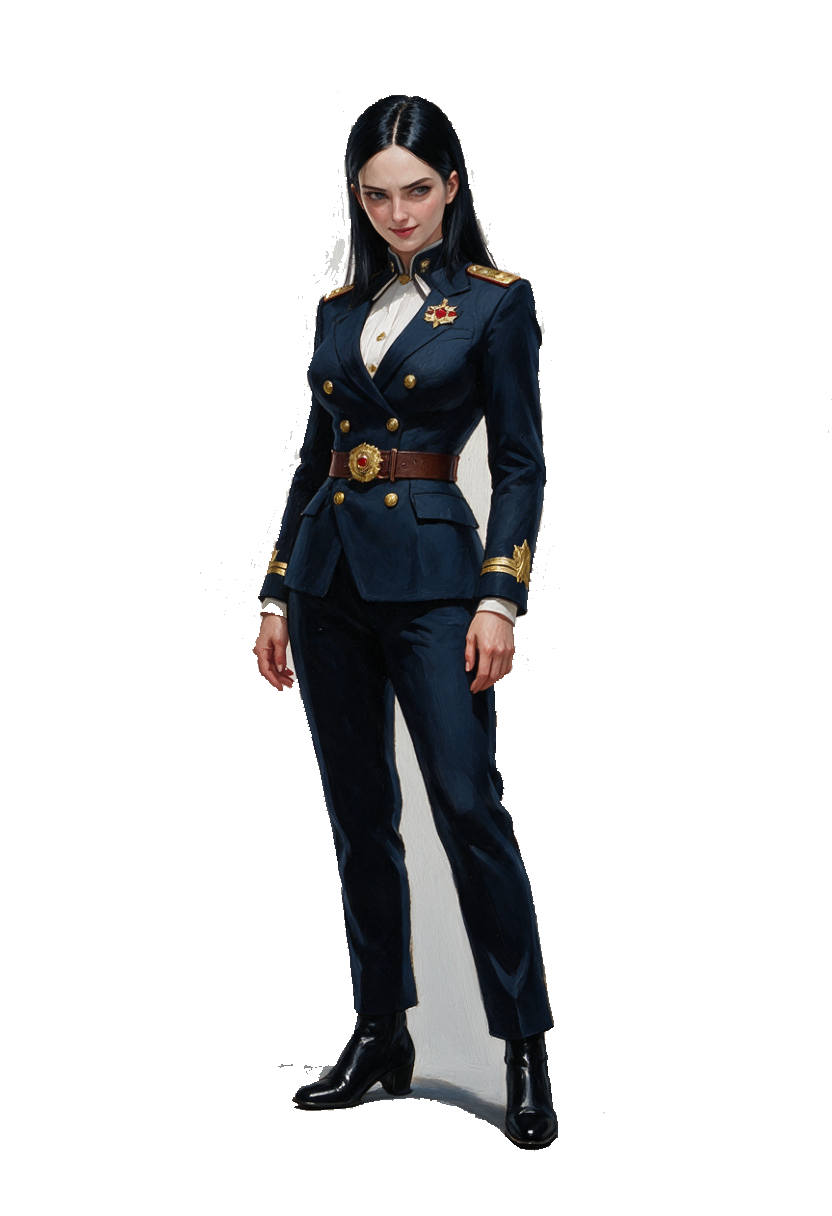
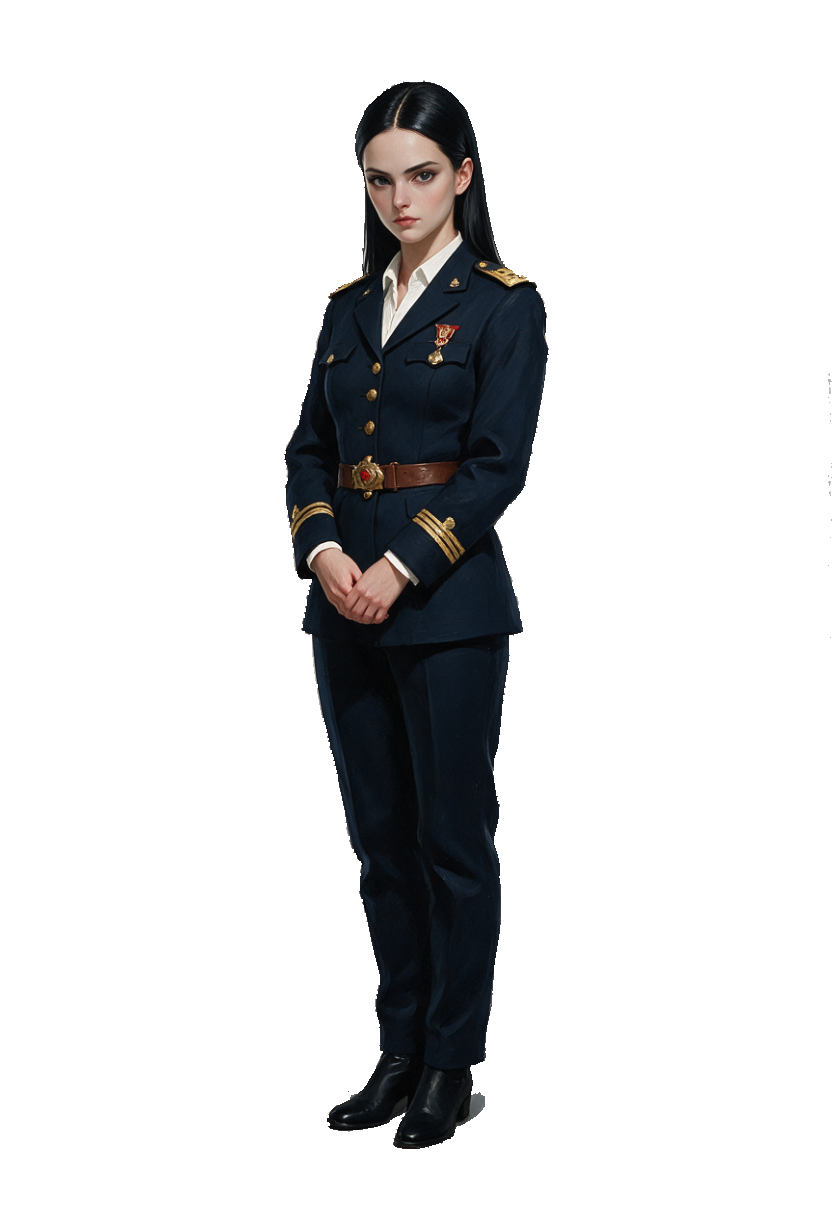
[fix](德塔): 幸立绘重出v2(双手叠前+得体表情)+位置跳动修复(绝对定位)
立绘位置跳动修复(DOM断点定位根因):
- 根因: flex+margin布局在角色增减/class变化时重新分配空间
- CharacterLayer改绝对定位(pos-left/right/center各自固定)
- prologue.js: 第二幕28处position固定(xing始终right, dean始终left)

幸立绘v2:
- 姿势改双腿并拢+双手叠前(轮廓紧凑, 抠图无残留)
- 表情去妖邪词改得体漂亮(gentle/dignified)
- 4套: smile/observe/pleased/cold

抠图修正:
- resize插值产生半透明, 改原图erode->resize->二次erode
- 4套半透明残留=0(像素采样验证)

Changed region(s): [[0.3125, 0.0625, 0.6875, 0.9688]]

diff --git a/src/visualnovel/data/prologue.js b/src/visualnovel/data/prologue.js
@@ -253,7 +253,7 @@ export default [
     type: 'dialogue',
     background: 'bg/tower_interior_hall',
     characters: [
-      { id: 'xing', portrait: 'xing/smile', position: 'center', active: true },
+      { id: 'xing', portrait: 'xing/smile', position: 'right', active: true },
       { id: 'dean', portrait: 'dean/calm', position: 'left', active: false },
     ],
     speaker: '幸',
@@ -265,7 +265,7 @@ export default [
     background: 'bg/tower_interior_hall',
     characters: [
       { id: 'dean', portrait: 'dean/calm', position: 'left', active: true },
-      { id: 'xing', portrait: 'xing/smile', position: 'center', active: false },
+      { id: 'xing', portrait: 'xing/smile', position: 'right', active: false },
     ],
     speaker: '见',
     next: 'pro_105'
@@ -275,7 +275,7 @@ export default [
     type: 'dialogue',
     background: 'bg/tower_interior_hall',
     characters: [
-      { id: 'xing', portrait: 'xing/smile', position: 'center', active: true },
+      { id: 'xing', portrait: 'xing/smile', position: 'right', active: true },
       { id: 'dean', portrait: 'dean/calm', position: 'left', active: false },
     ],
     speaker: '幸',
@@ -293,7 +293,7 @@ export default [
     type: 'dialogue',
     background: 'bg/tower_interior_hall',
     characters: [
-      { id: 'xing', portrait: 'xing/smile', position: 'center', active: true },
+      { id: 'xing', portrait: 'xing/smile', position: 'right', active: true },
     ],
     speaker: '幸',
     next: 'pro_108'
@@ -313,7 +313,7 @@ export default [
     type: 'dialogue',
     background: 'bg/tower_interior_hall',
     characters: [
-      { id: 'xing', portrait: 'xing/smile', position: 'center', active: true },
+      { id: 'xing', portrait: 'xing/smile', position: 'right', active: true },
     ],
     speaker: '幸',
     next: 'pro_110'
@@ -332,7 +332,7 @@ export default [
     type: 'dialogue',
     background: 'bg/tower_interior_hall',
     characters: [
-      { id: 'xing', portrait: 'xing/observe', position: 'center', active: true },
+      { id: 'xing', portrait: 'xing/observe', position: 'right', active: true },
     ],
     speaker: '幸',
     next: 'pro_112'
@@ -359,7 +359,7 @@ export default [
     type: 'dialogue',
     background: 'bg/tower_interior_hall',
     characters: [
-      { id: 'xing', portrait: 'xing/observe', position: 'center', active: true },
+      { id: 'xing', portrait: 'xing/observe', position: 'right', active: true },
     ],
     speaker: '幸',
     next: 'pro_115'
@@ -376,7 +376,7 @@ export default [
     type: 'dialogue',
     background: 'bg/tower_interior_hall',
     characters: [
-      { id: 'xing', portrait: 'xing/observe', position: 'center', active: true },
+      { id: 'xing', portrait: 'xing/observe', position: 'right', active: true },
     ],
     speaker: '幸',
     next: 'pro_117'
@@ -396,7 +396,7 @@ export default [
     type: 'dialogue',
     background: 'bg/tower_interior_hall',
     characters: [
-      { id: 'xing', portrait: 'xing/observe', position: 'center', active: true },
+      { id: 'xing', portrait: 'xing/observe', position: 'right', active: true },
     ],
     speaker: '幸',
     next: 'pro_brief_1'
@@ -408,7 +408,7 @@ export default [
     type: 'dialogue',
     background: 'bg/tower_interior_hall',
     characters: [
-      { id: 'xing', portrait: 'xing/observe', position: 'center', active: true },
+      { id: 'xing', portrait: 'xing/observe', position: 'right', active: true },
     ],
     speaker: '幸',
     next: 'pro_brief_2'
@@ -418,7 +418,7 @@ export default [
     type: 'dialogue',
     background: 'bg/tower_interior_hall',
     characters: [
-      { id: 'xing', portrait: 'xing/observe', position: 'center', active: true },
+      { id: 'xing', portrait: 'xing/observe', position: 'right', active: true },
     ],
     speaker: '幸',
     next: 'pro_brief_3'
@@ -435,7 +435,7 @@ export default [
     type: 'dialogue',
     background: 'bg/tower_interior_hall',
     characters: [
-      { id: 'xing', portrait: 'xing/observe', position: 'center', active: true },
+      { id: 'xing', portrait: 'xing/observe', position: 'right', active: true },
     ],
     speaker: '幸',
     next: 'pro_120'
@@ -452,7 +452,7 @@ export default [
     type: 'dialogue',
     background: 'bg/tower_interior_hall',
     characters: [
-      { id: 'xing', portrait: 'xing/observe', position: 'center', active: true },
+      { id: 'xing', portrait: 'xing/observe', position: 'right', active: true },
     ],
     speaker: '幸',
     next: 'pro_122'
@@ -481,7 +481,7 @@ export default [
     type: 'dialogue',
     background: 'bg/tower_interior_hall',
     characters: [
-      { id: 'xing', portrait: 'xing/observe', position: 'center', active: true },
+      { id: 'xing', portrait: 'xing/observe', position: 'right', active: true },
     ],
     speaker: '幸',
     next: 'pro_125'
@@ -491,7 +491,7 @@ export default [
     type: 'input',
     background: 'bg/tower_interior_hall',
     characters: [
-      { id: 'xing', portrait: 'xing/observe', position: 'center', active: true },
+      { id: 'xing', portrait: 'xing/observe', position: 'right', active: true },
     ],
     speaker: '幸',
     variable: 'playerName',
@@ -502,7 +502,7 @@ export default [
     type: 'dialogue',
     background: 'bg/tower_interior_hall',
     characters: [
-      { id: 'xing', portrait: 'xing/observe', position: 'center', active: true },
+      { id: 'xing', portrait: 'xing/observe', position: 'right', active: true },
     ],
     speaker: '幸',
     next: 'pro_127'
@@ -519,7 +519,7 @@ export default [
     type: 'dialogue',
     background: 'bg/tower_interior_hall',
     characters: [
-      { id: 'xing', portrait: 'xing/observe', position: 'center', active: true },
+      { id: 'xing', portrait: 'xing/observe', position: 'right', active: true },
     ],
     speaker: '幸',
     next: 'pro_choice_1'
@@ -531,7 +531,7 @@ export default [
     type: 'choice',
     background: 'bg/tower_interior_hall',
     characters: [
-      { id: 'xing', portrait: 'xing/observe', position: 'center', active: true },
+      { id: 'xing', portrait: 'xing/observe', position: 'right', active: true },
     ],
     choices: [
       { impact: 'critical', next: 'pro_agree_1', effects: { rui: 5 } },
@@ -548,7 +548,7 @@ export default [
     type: 'dialogue',
     background: 'bg/tower_interior_hall',
     characters: [
-      { id: 'xing', portrait: 'xing/smile', position: 'center', active: true },
+      { id: 'xing', portrait: 'xing/smile', position: 'right', active: true },
     ],
     speaker: '旁白',
     next: 'pro_delay_2'
@@ -569,7 +569,7 @@ export default [
     type: 'dialogue',
     background: 'bg/tower_interior_hall',
     characters: [
-      { id: 'dean', portrait: 'dean/calm', position: 'center', active: true },
+      { id: 'dean', portrait: 'dean/calm', position: 'left', active: true },
       { id: 'xing', portrait: 'xing/smile', position: 'right', active: false },
     ],
     speaker: '见',
@@ -589,7 +589,7 @@ export default [
     type: 'dialogue',
     background: 'bg/tower_interior_hall',
     characters: [
-      { id: 'xing', portrait: 'xing/observe', position: 'center', active: true },
+      { id: 'xing', portrait: 'xing/observe', position: 'right', active: true },
     ],
     speaker: '幸',
     next: 'pro_ask_rui_2'
@@ -606,7 +606,7 @@ export default [
     type: 'dialogue',
     background: 'bg/tower_interior_hall',
     characters: [
-      { id: 'xing', portrait: 'xing/observe', position: 'center', active: true },
+      { id: 'xing', portrait: 'xing/observe', position: 'right', active: true },
     ],
     speaker: '幸',
     next: 'pro_choice_1'
@@ -618,7 +618,7 @@ export default [
     type: 'dialogue',
     background: 'bg/tower_interior_hall',
     characters: [
-      { id: 'xing', portrait: 'xing/observe', position: 'center', active: true },
+      { id: 'xing', portrait: 'xing/observe', position: 'right', active: true },
     ],
     speaker: '幸',
     next: 'pro_ask_city_2'
@@ -635,7 +635,7 @@ export default [
     type: 'dialogue',
     background: 'bg/tower_interior_hall',
     characters: [
-      { id: 'xing', portrait: 'xing/observe', position: 'center', active: true },
+      { id: 'xing', portrait: 'xing/observe', position: 'right', active: true },
     ],
     speaker: '幸',
     next: 'pro_choice_1'
@@ -647,7 +647,7 @@ export default [
     type: 'dialogue',
     background: 'bg/tower_interior_hall',
     characters: [
-      { id: 'xing', portrait: 'xing/pleased', position: 'center', active: true },
+      { id: 'xing', portrait: 'xing/pleased', position: 'right', active: true },
     ],
     speaker: '幸',
     next: 'pro_agree_2'
@@ -657,7 +657,7 @@ export default [
     type: 'dialogue',
     background: 'bg/tower_interior_hall',
     characters: [
-      { id: 'xing', portrait: 'xing/pleased', position: 'center', active: true },
+      { id: 'xing', portrait: 'xing/pleased', position: 'right', active: true },
     ],
     speaker: '幸',
     next: 'pro_agree_3'
@@ -677,7 +677,7 @@ export default [
     type: 'dialogue',
     background: 'bg/tower_interior_hall',
     characters: [
-      { id: 'xing', portrait: 'xing/cold', position: 'center', active: true },
+      { id: 'xing', portrait: 'xing/cold', position: 'right', active: true },
     ],
     speaker: '幸',
     next: 'pro_refuse_2'
@@ -687,7 +687,7 @@ export default [
     type: 'dialogue',
     background: 'bg/tower_interior_hall',
     characters: [
-      { id: 'xing', portrait: 'xing/cold', position: 'center', active: true },
+      { id: 'xing', portrait: 'xing/cold', position: 'right', active: true },
     ],
     speaker: '幸',
     next: 'pro_refuse_3'
@@ -716,7 +716,7 @@ export default [
     type: 'dialogue',
     background: 'bg/tower_interior_hall',
     characters: [
-      { id: 'xing', portrait: 'xing/smile', position: 'center', active: true },
+      { id: 'xing', portrait: 'xing/smile', position: 'right', active: true },
     ],
     speaker: '幸',
     next: 'pro_depart_3'

diff --git a/src/visualnovel/components/CharacterLayer.vue b/src/visualnovel/components/CharacterLayer.vue
@@ -26,6 +26,8 @@ const characters = computed(() => {
       已存在的角色不重建 DOM，其三态变化（active/dim/narrator）通过 CSS class
       的 filter + transform 过渡完成（上移提亮 / 变暗）。
       key 固定为 char.id，不随说话人变化。
+
+      布局用绝对定位（非 flex），每个角色位置独立固定，不受其他角色增减影响。
     -->
     <TransitionGroup name="char-enter" tag="div" class="char-container">
       <div
@@ -50,17 +52,20 @@ const characters = computed(() => {
 
 .char-container {
   position: absolute;
-  bottom: 0; /* 立绘脚底贴屏幕底边，对话框(z-index更高)自然遮住下半身 */
-  left: 0;
-  right: 0;
-  display: flex;
-  justify-content: center;
-  align-items: flex-end; /* 末行对齐 = 脚底对齐 */
-  gap: 20px;
+  inset: 0;
 }
 
+/*
+ * 绝对定位布局：每个角色独立固定在屏幕底部，互不影响。
+ * 用 CSS 变量 --tx / --ty 组合 transform，避免 translateX(-50%) 和 translateY(-24px) 冲突。
+ */
 .char-portrait {
-  transition: filter 0.4s ease, transform 0.4s ease;
+  position: absolute;
+  bottom: 0;             /* 脚底贴屏幕底边，对话框自然遮住下半身 */
+  --tx: 0px;             /* 水平偏移（center 时为 -50% 居中） */
+  --ty: 0px;             /* 垂直偏移（active 时上移） */
+  transform: translate(var(--tx), var(--ty));
+  transition: filter 0.4s ease, transform 0.4s ease, left 0.4s ease, right 0.4s ease;
 }
 
 /* 立绘图（日系VN标准：脚底贴底，对话框压住膝盖以下） */
@@ -73,21 +78,16 @@ const characters = computed(() => {
   pointer-events: none;
 }
 
-/* 位置（均 align-self: flex-end 保证脚底对齐） */
+/* ===== 位置（绝对定位，互不影响） ===== */
 .pos-left {
-  align-self: flex-end;
-  margin-right: auto;
-  margin-left: 8%;
+  left: 5%;
 }
 .pos-right {
-  align-self: flex-end;
-  margin-left: auto;
-  margin-right: 8%;
+  right: 5%;
 }
 .pos-center {
-  align-self: flex-end;
-  margin-left: auto;
-  margin-right: auto;
+  left: 50%;
+  --tx: -50%;   /* 自身宽度的一半，实现水平居中 */
 }
 
 /* ===== 三态：narrator / active / dim ===== */
@@ -95,33 +95,31 @@ const characters = computed(() => {
 
 /* 说话人：上移 + 提亮 */
 .char-portrait.active {
+  --ty: -24px;
   filter: brightness(1.15) saturate(1.1);
-  transform: translateY(-24px);
 }
 
 /* 旁白态：全部对齐，正常亮度 */
 .char-portrait.narrator {
+  --ty: 0px;
   filter: brightness(1) saturate(1);
-  transform: translateY(0);
 }
 
 /* 非说话人：变暗 */
 .char-portrait.dim {
+  --ty: 0px;
   filter: brightness(0.55) saturate(0.4);
-  transform: translateY(0);
 }
 
 /* 角色入场/退场动画（仅新增/移除角色时触发，不影响已存在角色的三态过渡） */
 .char-enter-enter-active {
-  transition: opacity 0.4s ease, transform 0.4s ease;
+  transition: opacity 0.4s ease;
 }
 .char-enter-leave-active {
   transition: opacity 0.3s ease;
-  position: absolute;
 }
 .char-enter-enter-from {
   opacity: 0;
-  transform: translateY(20px);
 }
 .char-enter-leave-to {
   opacity: 0;

diff --git a/prd/01-需求文档/04-德塔/changelog.md b/prd/01-需求文档/04-德塔/changelog.md
@@ -4,6 +4,25 @@
 
 ---
 
+### [fix] 幸立绘重出v2(双手叠前+得体表情) + 立绘位置跳动修复(绝对定位)
+
+- **时间**：2026-07-31
+- **变更人**：陈梓键（黑机）
+- **背景**：用户反馈三个问题：①立绘抠不干净 ②幸表情太妖邪 ③双人同框切换说话人时立绘消失/位置互换
+- **变更内容**：
+  - **立绘位置跳动根因**（DOM断点定位）：CharacterLayer 用 flex+margin:auto 布局，角色增减/class 变化时 flex 重新分配空间导致位置漂移；且单人/双人节点 position 不一致（xing 在 center/right 间跳）
+    - 修复：CharacterLayer 改**绝对定位**（pos-left=left:5%、pos-right=right:5%、pos-center=left:50%+translateX(-50%)），位置互不影响
+    - prologue.js：第二幕 28 处 position 固定（xing 始终 right、dean 始终 left），消除跨节点位置跳动
+  - **幸立绘重出 v2**（表情得体+抠图友好姿势）：
+    - 姿势改"双腿并拢+双手叠在面前"，轮廓紧凑，抠图无残留（透明率77-81%，v1是65-80%）
+    - 表情去掉"sharp intelligent gaze"等妖邪词，改"beautiful and dignified / gentle polite smile"，视觉确认得体漂亮不妖邪
+    - 4套：smile(温和礼貌)、observe(平静审视)、pleased(真心满意)、cold(礼貌但坚定)
+  - **抠图修正**：发现 resize 缩放会产生插值半透明像素（原图erode=0，resize后残留上千），修正为"原图erode → resize → 二次erode"
+- **验证**：DOM标记法（pro_103→pro_104 切换标记保留+centerX不变）；canvas像素采样（4套半透明残留=0）；像素嘴部差异（4套均有差异）；npm run build通过
+- **教训**：①Vue+flex布局对"同位置元素增减"不稳定，立绘场景应用绝对定位 ②图片resize插值会破坏alpha，erode要在resize后补一次
+
+---
+
 ### [feat] 立绘表情差分系统(7套) + 三态交互重构(修复角色消失/提亮变淡出) + 抠图灰边修复
 
 - **时间**：2026-07-30
